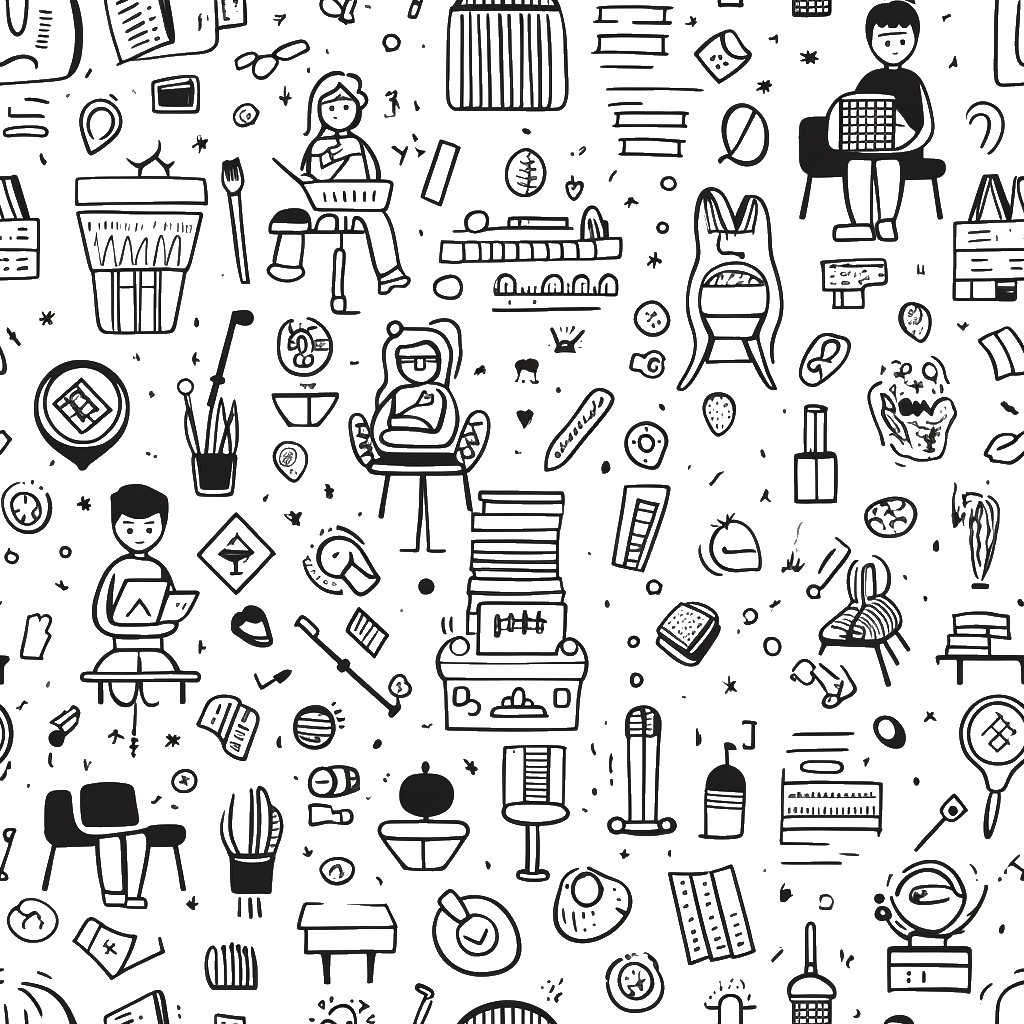
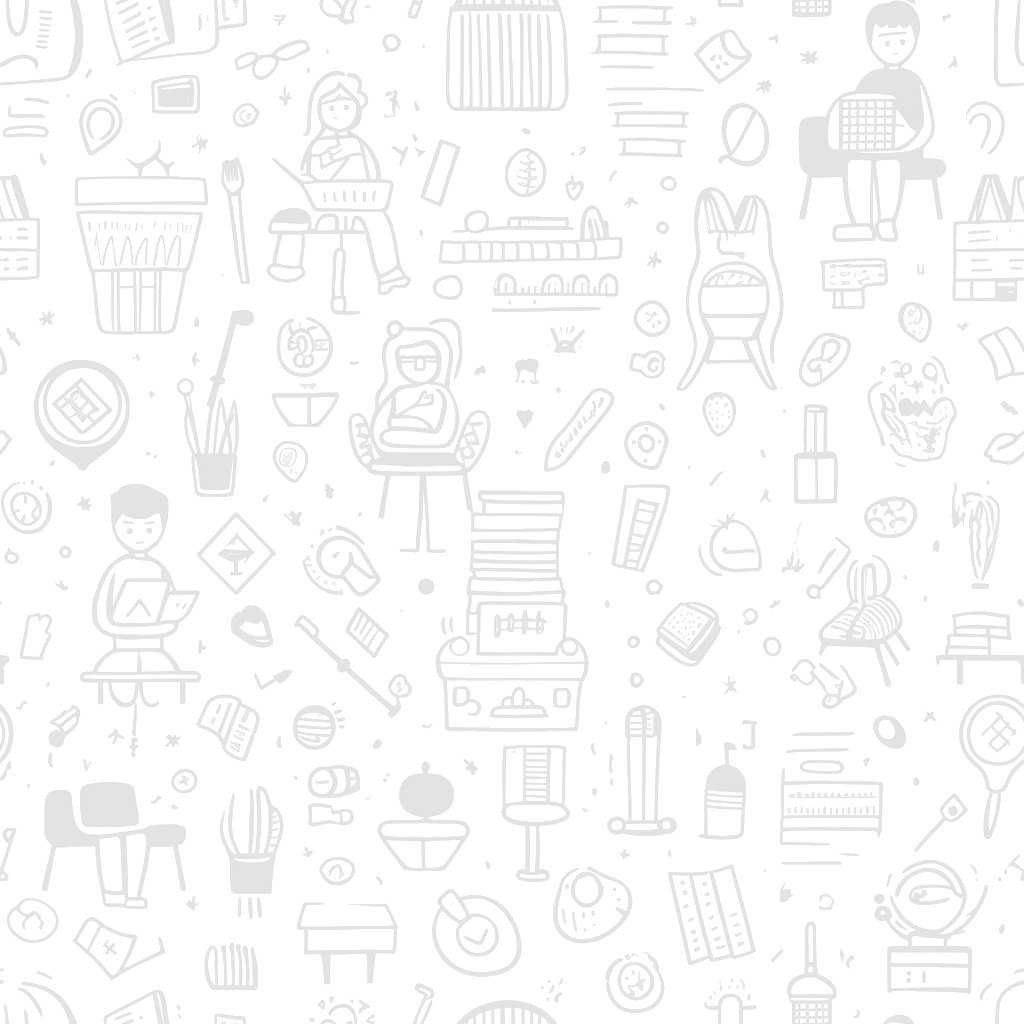
Update styles

diff --git a/app/layout.tsx b/app/layout.tsx
@@ -54,10 +54,13 @@ export default function RootLayout({ children }: RootLayoutProps) {
   return (
     <html lang="zh">
       <body
-        className={`antialiased relative min-h-screen bg-white dark:bg-slate-950 text-slate-900 dark:text-slate-50 ${inter.className}`}
+        className={`bg-[url('/background.png')] dark:bg-[url('/background-dark.png')] bg-fixed antialiased relative min-h-screen bg-zinc-100 dark:bg-zinc-950 text-zinc-900 dark:text-zinc-50 ${inter.className}`}
+        style={{
+          backgroundSize: "360px 360px",
+        }}
       >
         <ThemeProvider attribute="class" defaultTheme="system" enableSystem>
-          <div className="max-w-2xl mx-auto py-10 px-4">
+          <div className="max-w-2xl sm:mx-auto my-5 m-2 sm:m-5 py-10 px-5 sm:px-10 bg-white dark:bg-zinc-900 drop-shadow-lg">
             <header>
               <div className="flex items-center justify-between">
                 <Link className="flex items-center no-underline" href="/">
@@ -82,13 +85,11 @@ export default function RootLayout({ children }: RootLayoutProps) {
               </div>
             </header>
             <main>{children}</main>
-            <footer className="flex flex-col items-center justify-center my-6">
+            <footer className="flex flex-col items-center justify-center mt-20 mb-6">
               <nav className="text-sm font-medium space-x-6 my-2">
                 <a href="https://nooc.ink">
                   <svg
                     xmlns="http://www.w3.org/2000/svg"
-                    width="24"
-                    height="24"
                     viewBox="0 0 24 24"
                     fill="none"
                     stroke="currentColor"
@@ -102,11 +103,25 @@ export default function RootLayout({ children }: RootLayoutProps) {
                   </svg>
                   主页
                 </a>
+                <a href="mailto://nooc@nooc.ink">
+                  <svg
+                    xmlns="http://www.w3.org/2000/svg"
+                    viewBox="0 0 24 24"
+                    fill="none"
+                    stroke="currentColor"
+                    stroke-width="2"
+                    stroke-linecap="round"
+                    stroke-linejoin="round"
+                    className="inline h-4 w-4 mr-1 feather feather-mail"
+                  >
+                    <path d="M4 4h16c1.1 0 2 .9 2 2v12c0 1.1-.9 2-2 2H4c-1.1 0-2-.9-2-2V6c0-1.1.9-2 2-2z"></path>
+                    <polyline points="22,6 12,13 2,6"></polyline>
+                  </svg>
+                  邮箱
+                </a>
                 <a href="https://twitter.com/noobnooc">
                   <svg
                     xmlns="http://www.w3.org/2000/svg"
-                    width="24"
-                    height="24"
                     viewBox="0 0 24 24"
                     fill="none"
                     stroke="currentColor"
@@ -143,15 +158,6 @@ export default function RootLayout({ children }: RootLayoutProps) {
               </div>
             </footer>
           </div>
-
-          <div
-            className="hidden sm:block absolute pointer-events-none bg-fixed top-0 right-0 bottom-0 left-0 bg-repeat opacity-[0.03]"
-            style={{
-              backgroundImage: "url(/background.png)",
-              backgroundSize: "360px 360px",
-            }}
-          />
-
           <Analytics />
         </ThemeProvider>
       </body>
